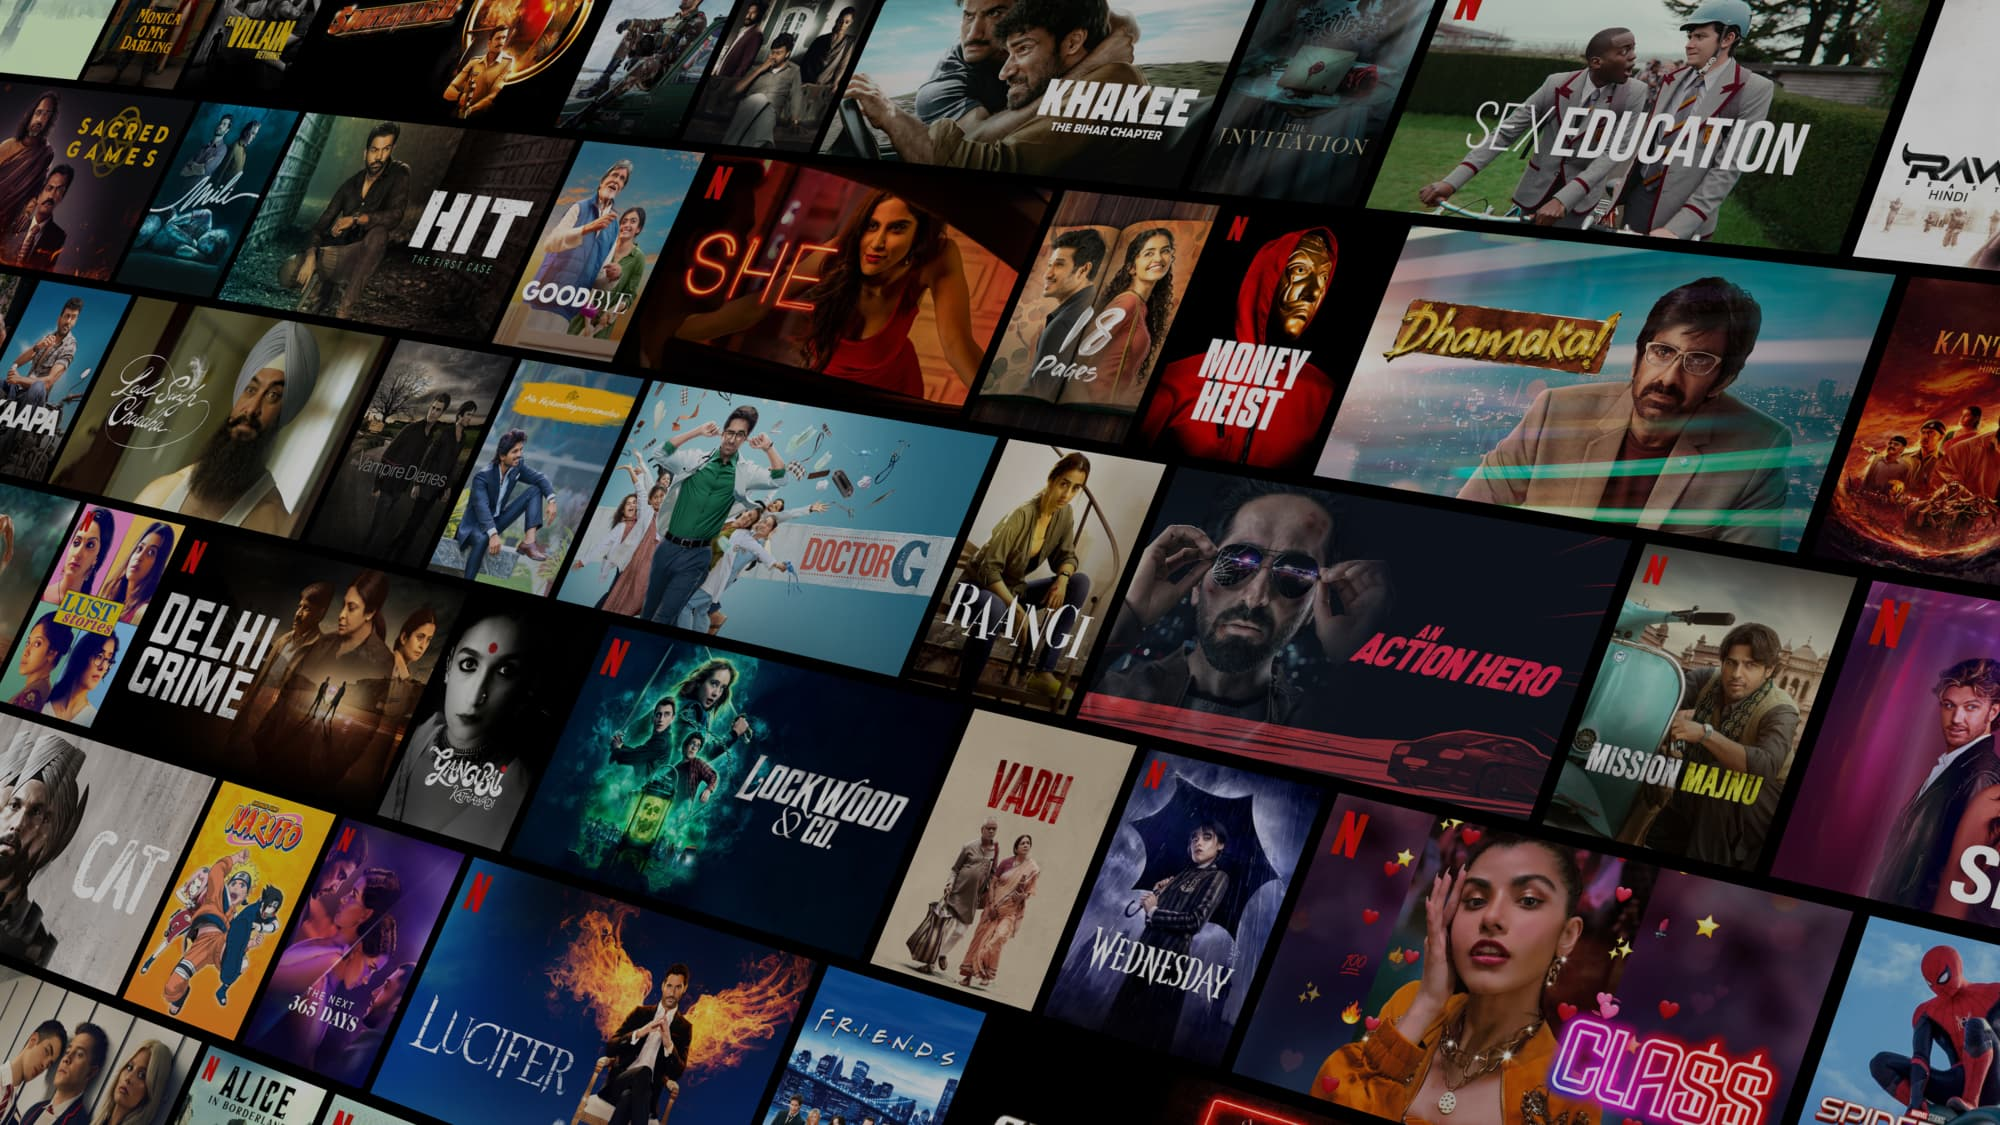
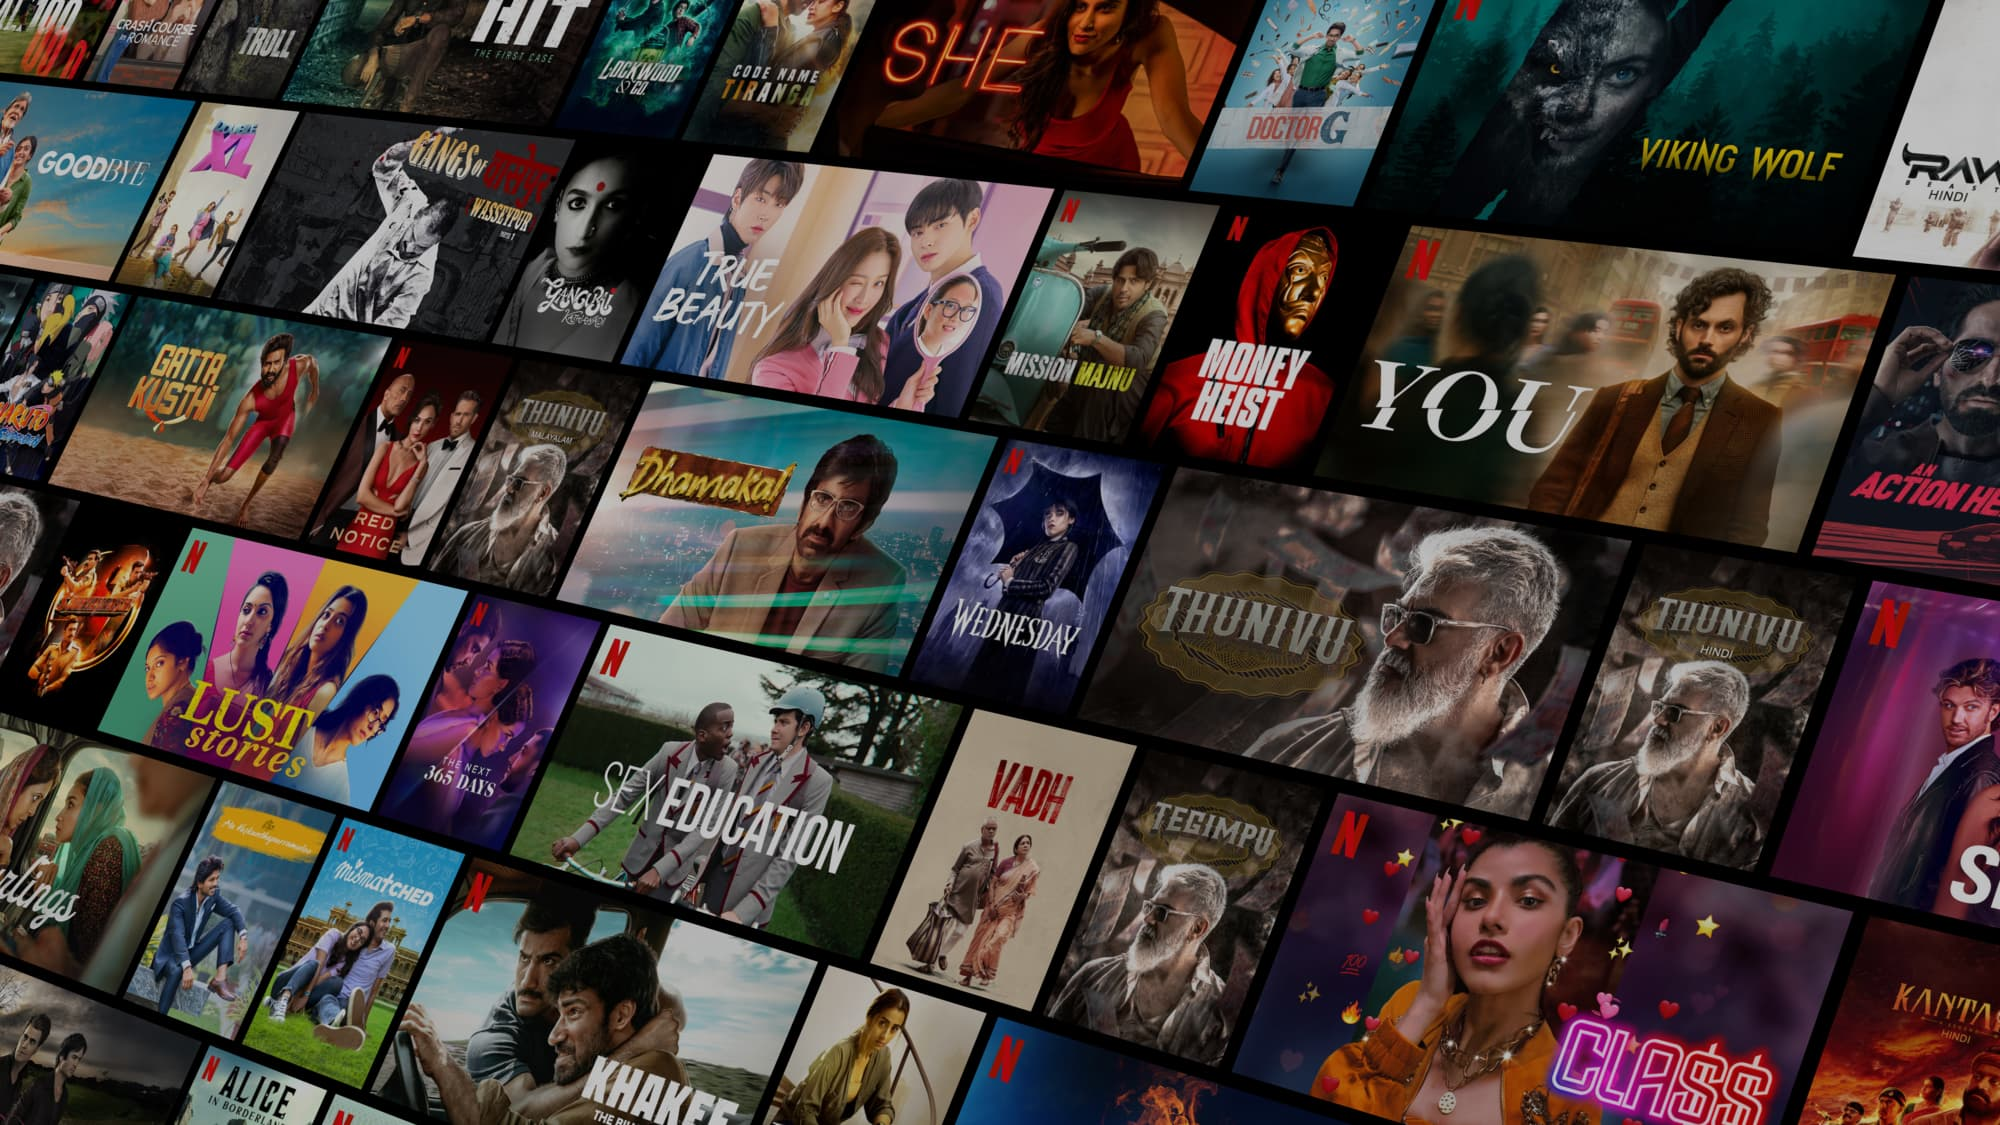
finishing up the section-1 html and empty is nav.pug file

diff --git a/static/css/style.css b/static/css/style.css
@@ -141,30 +141,33 @@ nav > img{
 /* Section area styling */
 #section{
     grid-area: section;
-    height: 100%;
-    width: 100%;
+    height: 164%;
+    width: 105%;
     display: flex;
     flex-direction: column;
     align-items: center;
     justify-content: center;
+    overflow: hidden;
 }
 .overlay-netflix-image-background{
-    background: rgb(0 0 0 / 76%);
+    background: rgb(0 0 0 / 40%);
     opacity: .9;
     position: absolute;
     left: 0;
     top: 0;
-    height: 157%;
-    width: 125%;
+    height: 164%;
+    width: 105%;
     z-index: -1;
     background-image: linear-gradient(to top, rgba(0, 0, 0, 0.8) 0, rgba(0, 0, 0, 0) 60%, rgba(0, 0, 0, 0.8) 100%);
+    overflow: hidden;
 }
 #netflix_index_page_background{
     position: absolute;
     z-index: -2;
-    width: 125%;
-    height: 157%;
-    top: -288px;
+    width: 105%;
+    height: 155%;
+    top: -252px;
+    object-fit: cover;
 }
 .section-1-heading{
     color: white;
